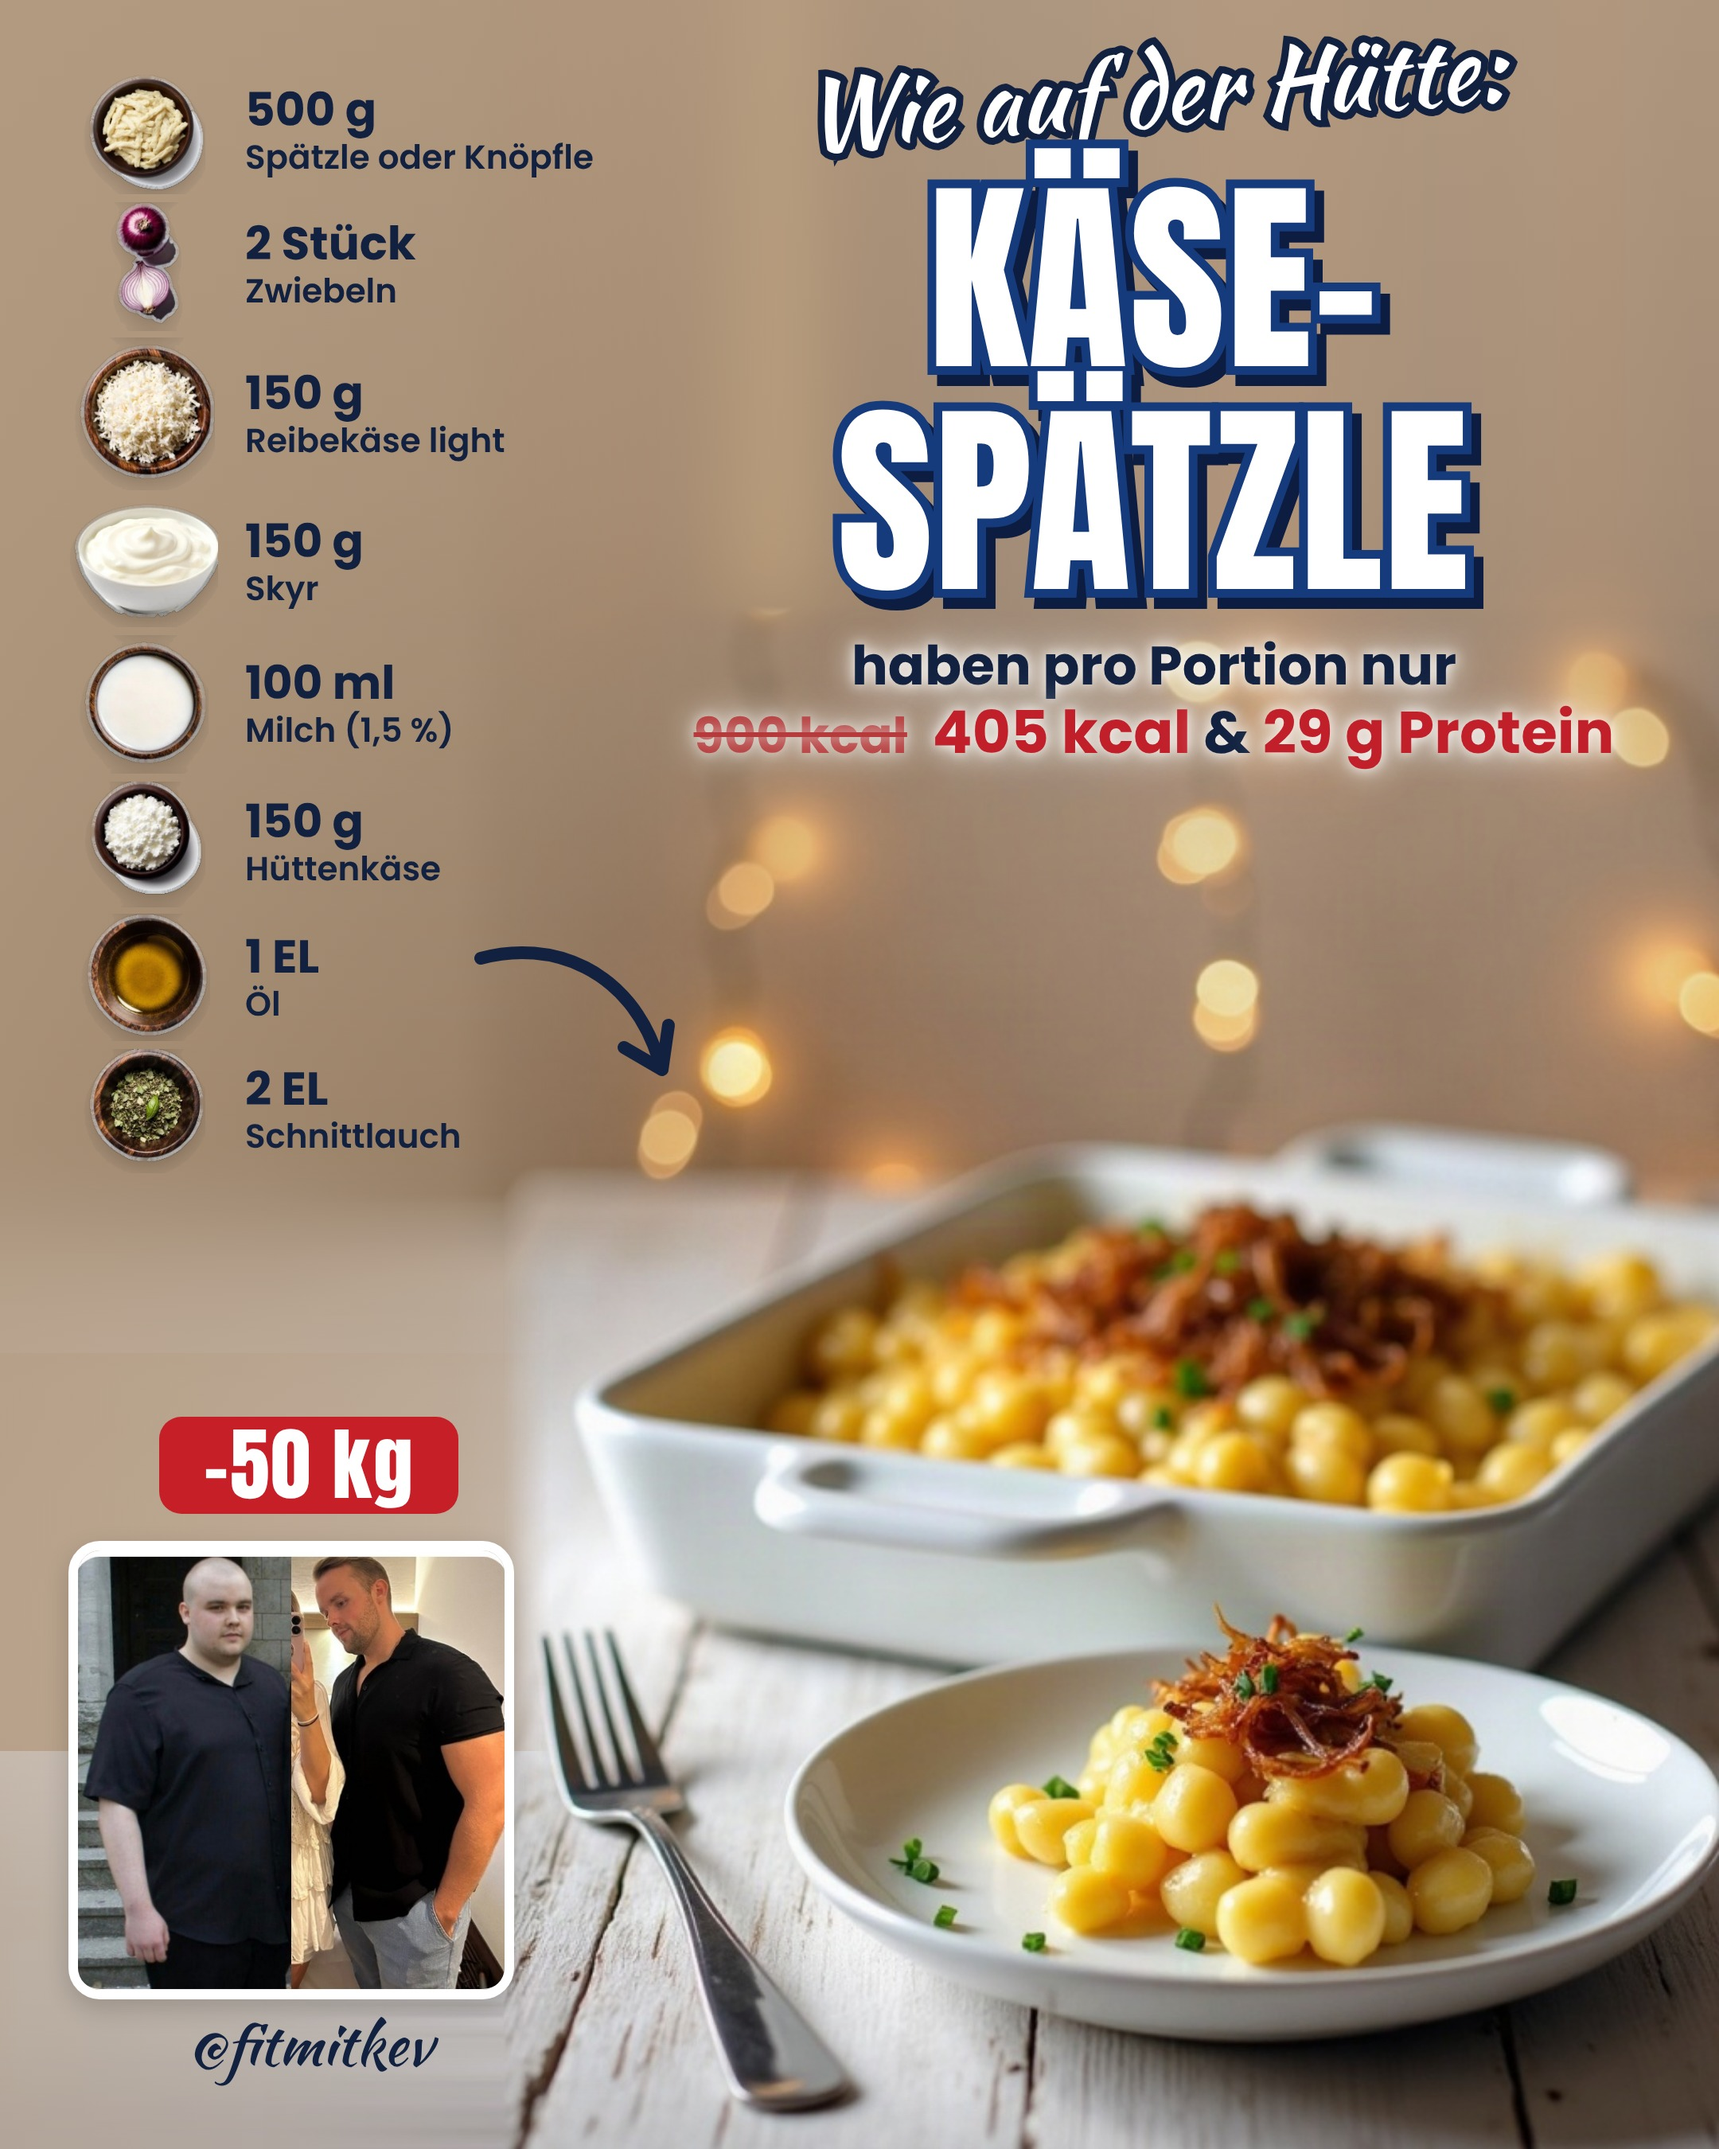
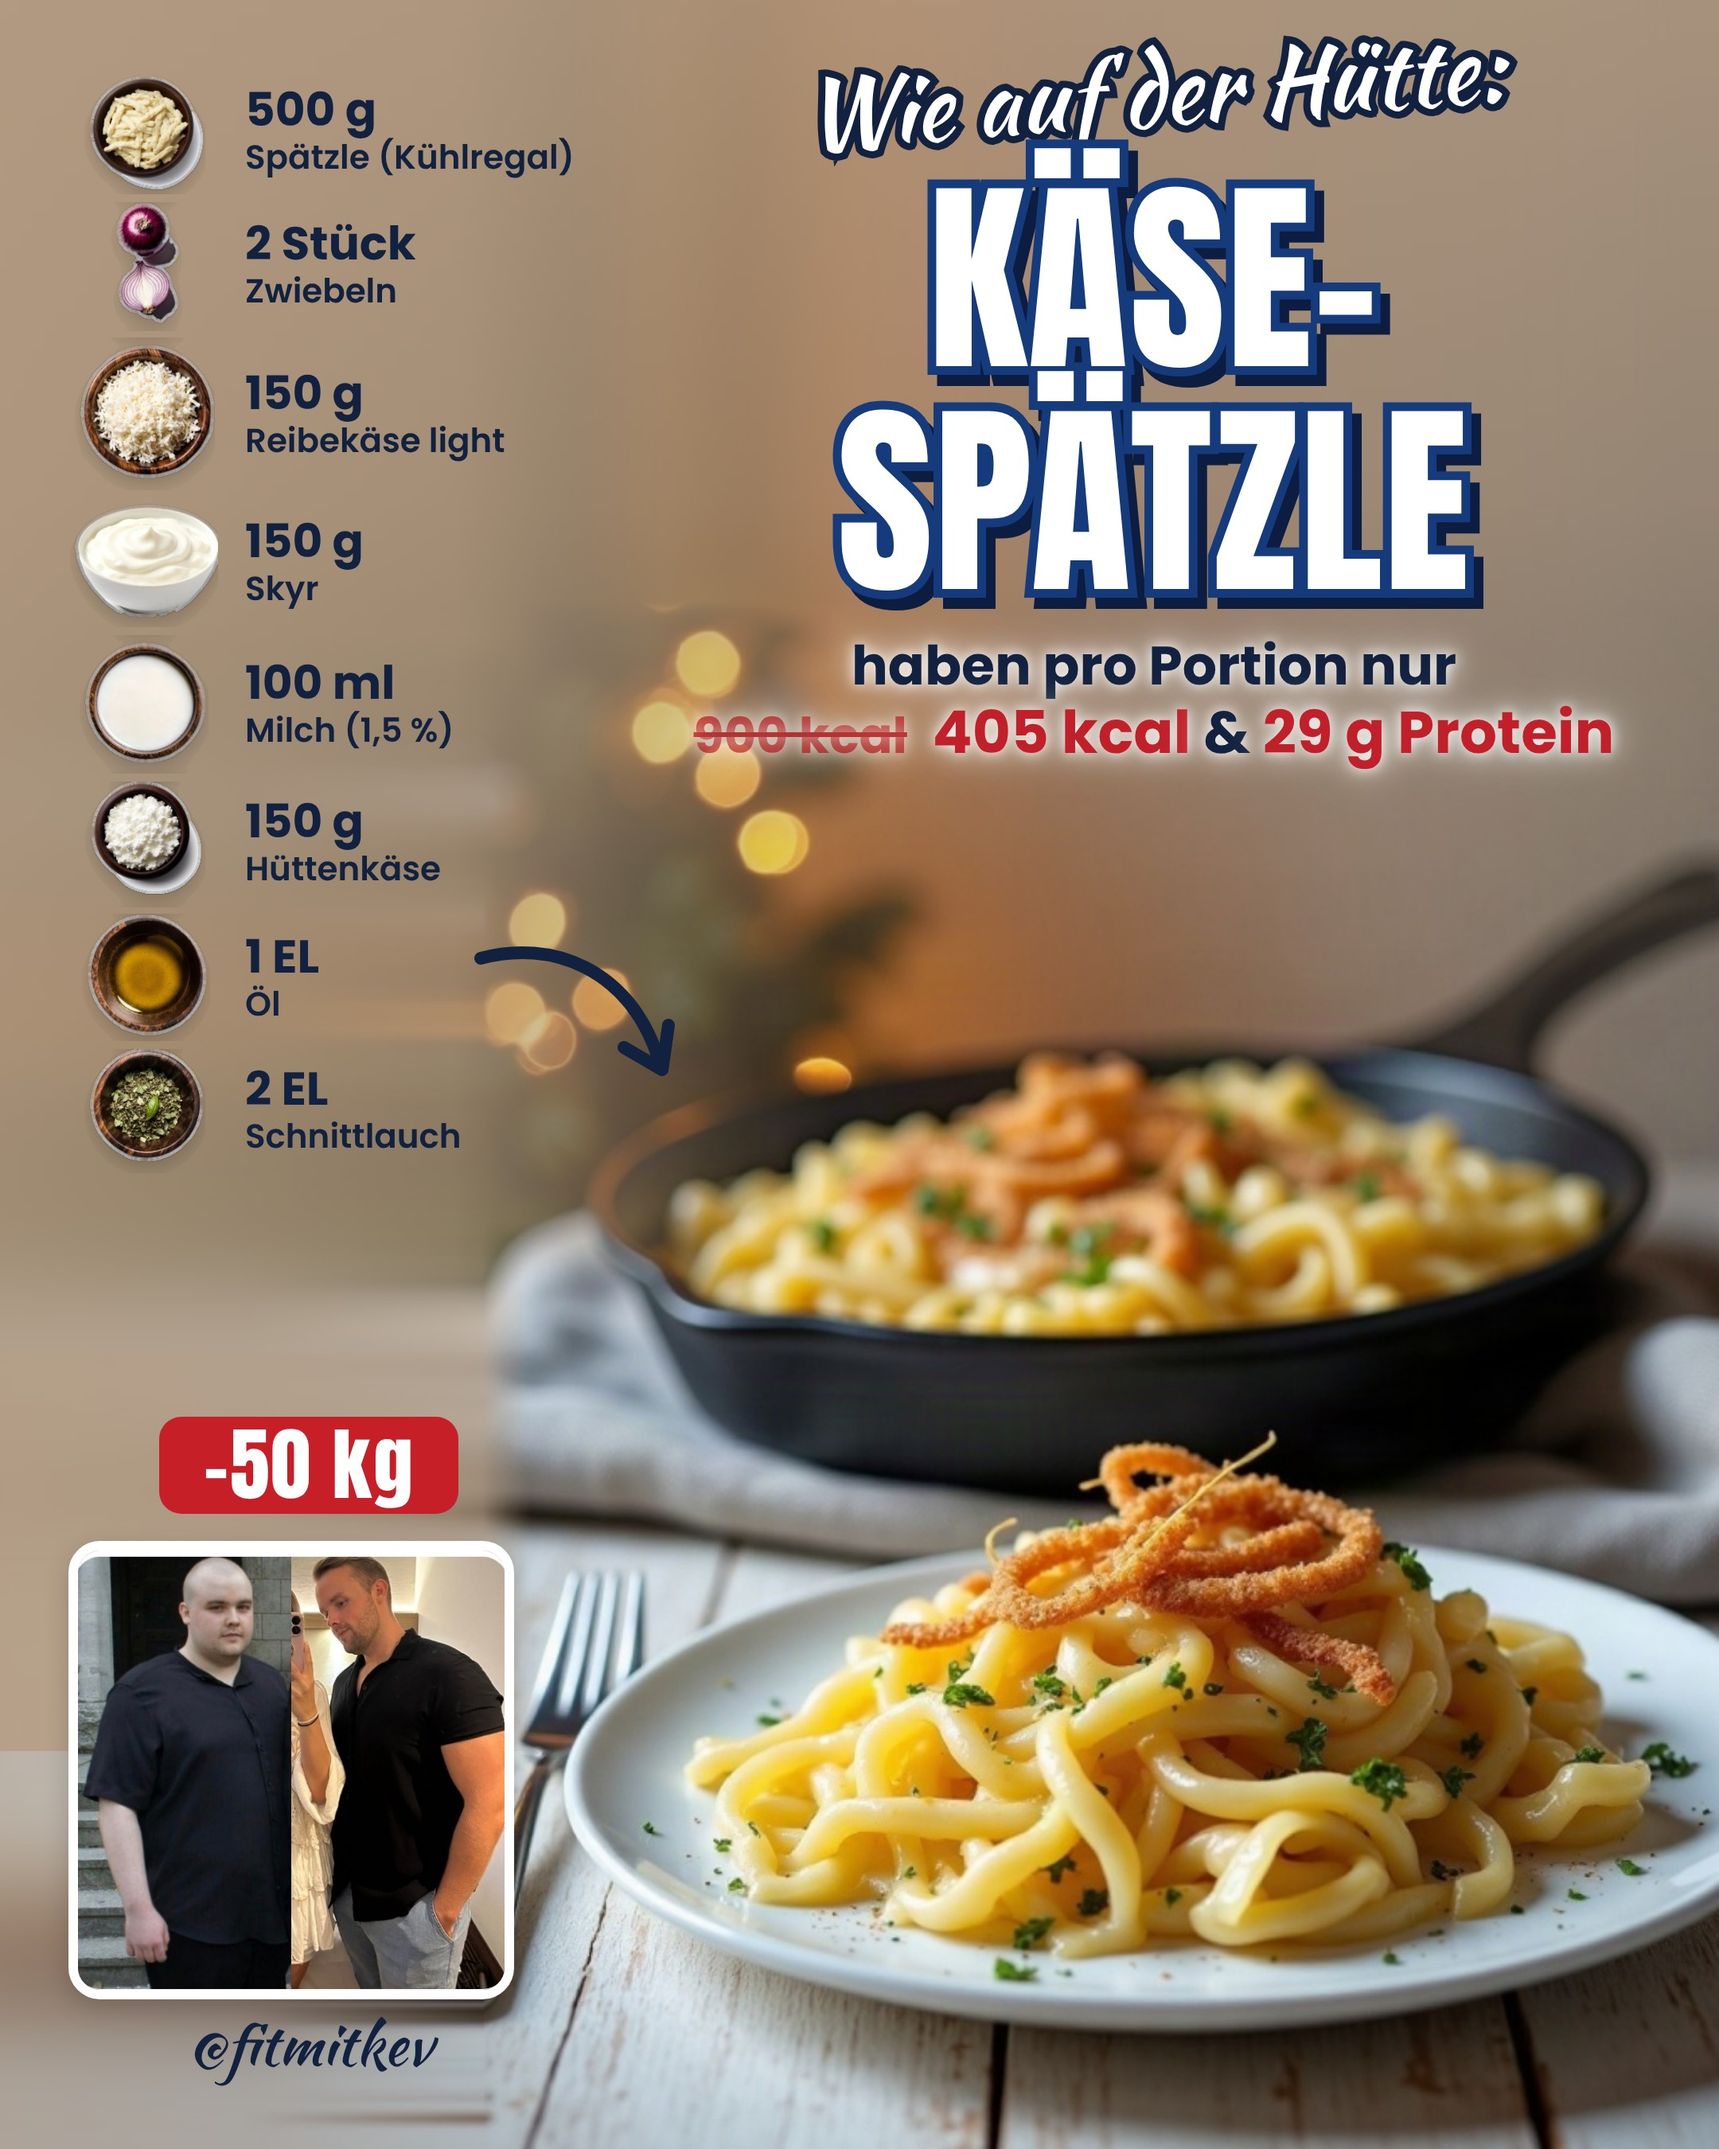
G97: Käsespätzle mit neuem Bild (lange Spätzle statt Knöpfle)
Claude-Session: https://claude.ai/code/session_01KPVmpRePrZAkggdzf7KsfK

diff --git a/tools/g97/g97_data.py b/tools/g97/g97_data.py
@@ -176,6 +176,14 @@ GRUPPE_A={1,2,5,6,9,11,14,15,17,18}
 HASHTAG_SOLL={i+1:len(r['tags'].split()) for i,r in enumerate(R)}
 OHNE_BOX=set(range(1,21))
 VORHANDEN=set()
+# Kev 18.11., 13:28: Käsespätzle-Bild sah aus wie Knöpfle → neues Bild mit langen Spätzle, „Knöpfle“ aus Zutat und Text raus
+for _r in R:
+    if _r['key']=='Kaesespaetzle':
+        for _z in _r['zutaten']:
+            if _z['name']=='Spätzle oder Knöpfle': _z['name']='Spätzle (Kühlregal)'
+        _r['intro']=_r['intro'].replace('Mit Spätzle oder Knöpfle aus dem Kühlregal','Mit Spätzle aus dem Kühlregal')
+        _r['schritte']=[x.replace('Spätzle oder Knöpfle nach Packung','Spätzle nach Packung') for x in _r['schritte']]
+
 if __name__=='__main__':
     assert len(R)==20 and len({r['key'] for r in R})==20 and len(ZEITEN)==20
     SW=[False,True,False,True,False,True,False,True,False,False,True,False,True,False,True,True,False,True,False,True]

diff --git a/tools/g97/prep97.py b/tools/g97/prep97.py
@@ -5,7 +5,7 @@ Kachelspalte, Titel, Badge und Vorher-Nachher-Foto liegt. Ränder werden aus der
 Danach wird der Freisteller neu berechnet (Text-Maske liegt dann in den richtigen Koordinaten)."""
 import cv2, numpy as np, json, os, sys
 D=os.path.dirname(os.path.abspath(__file__))
-KEYS=['KFFladen','KFKaesenudeln','KFKaesekuchen','PizzaWaffeln','KalterHundBowl','LasagneRoellchen','PizzaAuflauf','ChowMein','KFPancakes','CheeseburgerBowl']
+KEYS=['KFFladen','KFKaesenudeln','KFKaesekuchen','PizzaWaffeln','KalterHundBowl','LasagneRoellchen','PizzaAuflauf','ChowMein','KFPancakes','CheeseburgerBowl','Kaesespaetzle']
 T={k:dict(s=0.72) for k in KEYS}
 T.update({'KFKaesenudeln':dict(s=0.68,dy=15),'LasagneRoellchen':dict(s=0.68,dy=15),'PizzaAuflauf':dict(s=0.68,dy=15),'ChowMein':dict(s=0.68,dy=15),'KalterHundBowl':dict(s=0.74,dy=10)})
 def prep(key):
